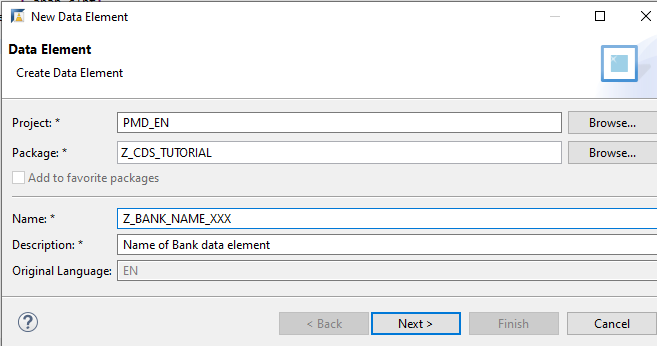
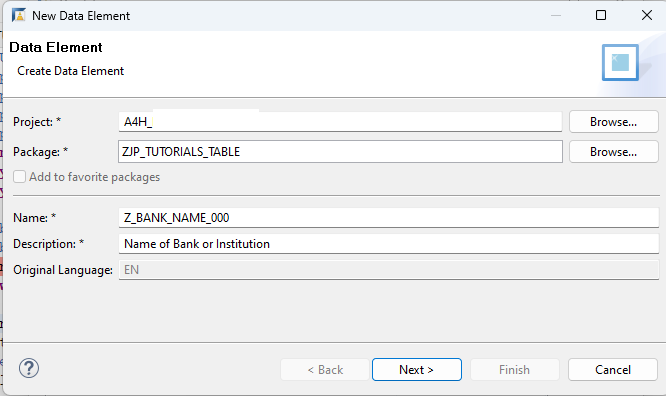
Review: Minor

Changed region(s): [[0.0, 0.0, 1.0, 0.8671], [0.0, 0.896, 1.0, 1.0], [0.0, 0.896, 0.0609, 0.9538]]

diff --git a/tutorials/abap-dev-create-table/abap-dev-create-table.md b/tutorials/abap-dev-create-table/abap-dev-create-table.md
@@ -30,7 +30,7 @@ Tables are defined independently of the database in the ABAP Dictionary. When yo
 The table in this tutorial will store bank account details for customers. The table will have the following columns (or **fields**):
 
 - `client` (key field)
-- `account_number` (key account number)
+- `account_number` (key field)
 - `bank_customer_id`
 - `bank_name`
 - `city`
@@ -38,6 +38,8 @@ The table in this tutorial will store bank account details for customers. The ta
 - `currency`
 - `account_category`
 - `lastchangedat`
+
+> Throughout this tutorial, replace `###` or `000` with your initials or group number.
 
 
 ---
@@ -94,7 +96,7 @@ One key field has been added automatically:
 This specifies that the table is client-specific.
 Tables can be cross-client or client-specific. Each client is a self-contained unit within an organization, such as a subsidiary. For client-specific tables, the client is the first key field in the table.
 
-The field is also specified as `not null x`. This means that the field cannot be left blank. In this case, `abap.clnt` is automatically filled with the value of the current client (such as 001).
+The field is also specified as `not null`. This means that the field cannot be left blank. In this case, `abap.clnt` is automatically filled with the value of the current client (such as 001).
 
 
 ### Add field account number using primitive type
@@ -155,7 +157,6 @@ Add a field based on a built-in domain.
 
     <!-- border -->
     ![step5c-domain-attributes](step5c-domain-attributes.png)
-
 
 
 ### Add field bank using new data element
